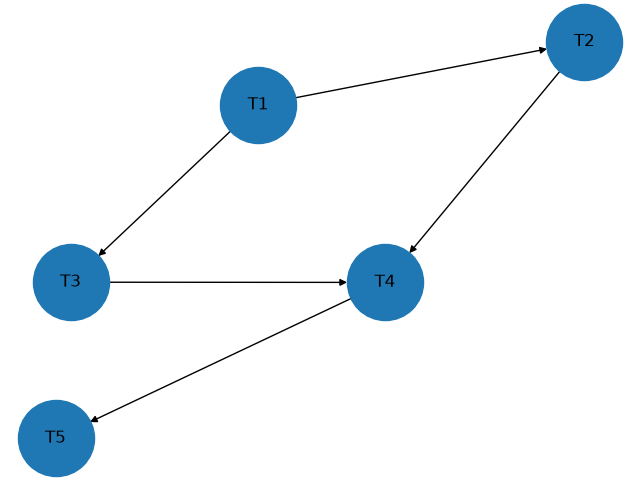
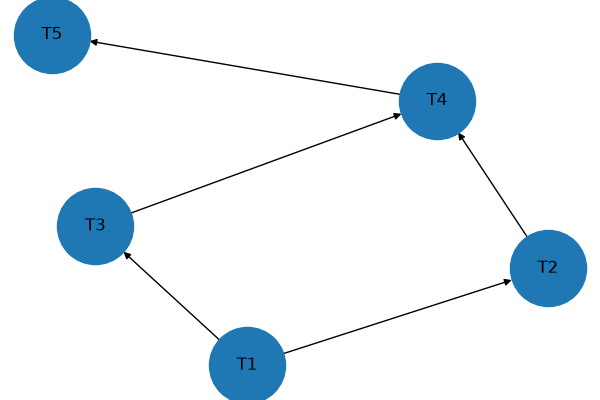
Completed queue aware scheduler

diff --git a/src/architecture.py b/src/architecture.py
@@ -1,0 +1,39 @@
+import matplotlib.pyplot as plt
+
+steps = [
+'Vehicle\nMobility',
+'Connectivity',
+'Ready\nTask',
+'MEC\nSelection',
+'Queue\nAware',
+'Execution',
+'Queue\nUpdate',
+'DAG\nUpdate'
+]
+
+fig, ax = plt.subplots(figsize=(12,2))
+
+for i,s in enumerate(steps):
+
+    ax.text(
+        i,
+        0,
+        s,
+        bbox=dict(facecolor='lightblue')
+    )
+
+    if i < len(steps)-1:
+
+        ax.arrow(
+            i+0.25,
+            0,
+            0.4,
+            0,
+            head_width=0.05
+        )
+
+ax.axis('off')
+
+plt.savefig(
+'results/architecture.png'
+)

diff --git a/src/dag_visual.py b/src/dag_visual.py
@@ -11,12 +11,14 @@ G.add_edges_from([
 ("T4","T5")
 ])
 
+plt.figure(figsize=(6,4))
+
 nx.draw(
     G,
     with_labels=True,
     node_size=3000
 )
 
-plt.savefig(
-"results/dag.png"
-)
+plt.savefig("results/dag.png")
+
+print("DAG saved")
